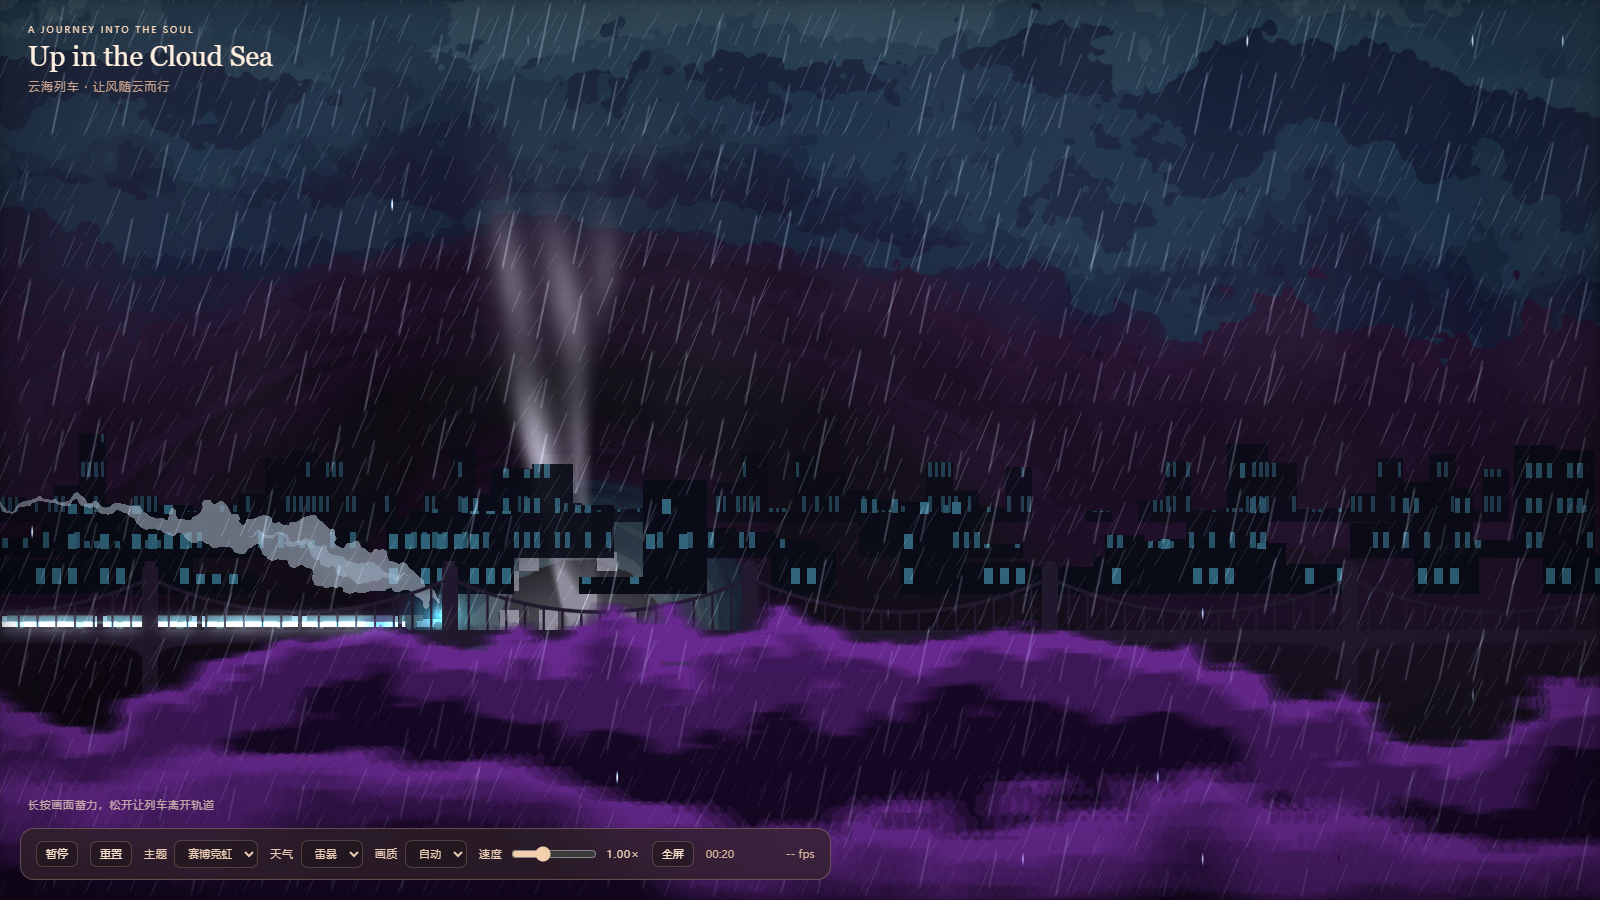
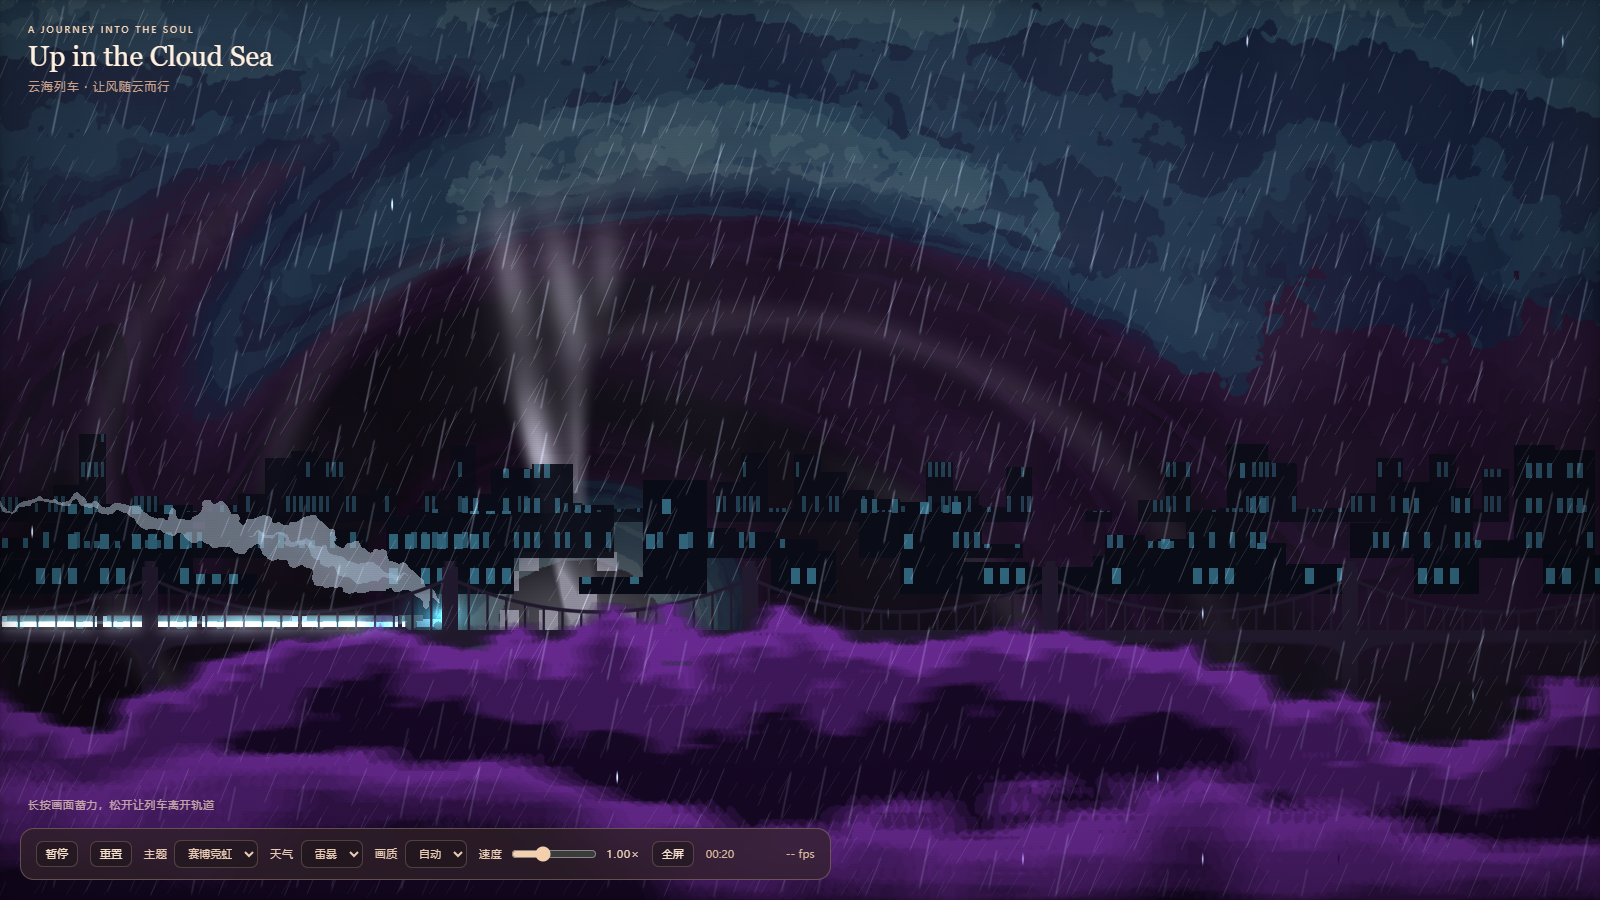
M17: 龙卷螺旋云臂 + 顶部喇叭口

diff --git a/docs/开发日志.md b/docs/开发日志.md
@@ -363,11 +363,35 @@ carveDelta = -smoothstep(0.26, 0.0, tr) * 1.45 * uTornado     // 中心压到天
 
 ---
 
+## 2026-11-18 · M17 龙卷云臂
+
+### 做了什么
+
+在 M16 的「挖空 + 漏斗」基础上，补上被卷起的云臂：
+
+1. **云层形变**（`sky.frag`）：以漏斗为心，用极坐标螺旋 `ang*3 + tr*22 - t*1.4` 调制云高，
+   在 0.24–0.78 半径区间内以 ±0.26 的幅度抬高/压低云层 —— 云的边界被打成螺旋弧；
+2. **叠加带**（`composite.frag`）：再叠一层很淡的螺旋灰度带（alpha 0.16），强化「卷起来」的读感；
+3. **漏斗喇叭口**：宽度指数从 1.6 提到 1.9、系数 0.125 → 0.155，顶部张开更像龙卷。
+
+### 数据
+
+- 1080p 雷暴 **8.47 ms**（云臂是每像素一次计算，没有进 12 层循环）；
+- `verify.ps1` 8/8 通过；
+- 对比：`shots/tornado-arms.png`（左 M16：直云带 + 洞；右 M17：云带被拉成螺旋弧）。
+
+### 还可以更好
+
+- 云臂现在是「云带被拉弯」，还不是一条条独立甩出的云絮；
+- 若要更像概念图，需要把云臂做成独立的半透明贴片（而不是靠高度场形变）。
+
+---
+
 ## 待办（按优先级）
 
 1. **音频**：风声（随天气变化）、雷声、起飞音效——M9 唯一没兑现的项；
    （雨丝质感：M12–M15 已完成，剩雨簇疏密与水花）
-2. ~~**龙卷挖空云层**~~：已完成（M16：挖空 + 螺旋漏斗），剩云臂与碎屑粒子；
+2. ~~**龙卷挖空云层**~~：已完成（M16 挖空 + M17 云臂），剩碎屑粒子；
 3. **竖屏构图**：430×860 下 `uv.x` 只有 0.5，列车占比过大，需要给云层一套纵向参数；
 4. **飓风的体感**：目前靠风速与粒子漂移，可再加画面轻微抖动与云的横向拉伸；
 5. **飞行姿态**：抬轮/倾斜、车体轮廓光、发光尾迹（现在飞起来像一道光）；
